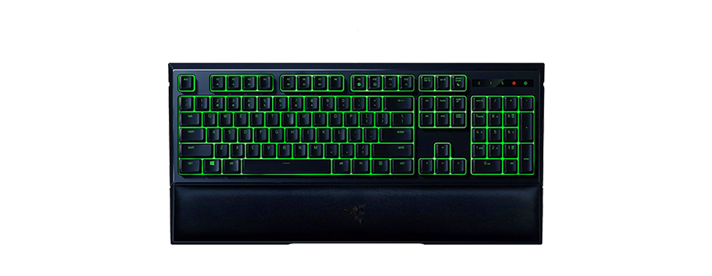
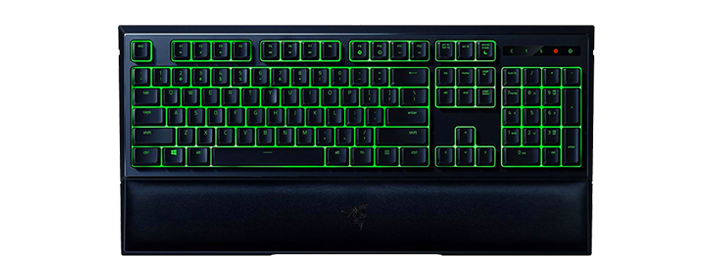
added new items

diff --git a/ng-src/src/app/components/treats/treats.component.html b/ng-src/src/app/components/treats/treats.component.html
@@ -150,7 +150,7 @@
 </div>
 
 <div class="row">
-    <div class="col s3"></div>
+    
     <div class="col s6 products">
         <div id="product-1" class="products-item">
         <div class="container center products-item-content" >
@@ -161,15 +161,6 @@
                 </div>
             </div>
             <div class="upper-cont">
-                <!-- <div>
-                    <div class="right-align">
-                        <p class="recent-price" id="recent-price"> <span class= "crossed-out-price" id="crossed-out-price"> Php 7000.00  </span>Php 5,950</p>
-                        <div class="valign-wrapper right received-candies">
-                            <p class="total-candies-rec">You get <span id="num-of-candies"> 28 </span> </p>
-                            <img class="responsive-img candy-img" src="../assets/img/product-candies.png">
-                        </div>
-                    </div>
-                </div> -->
 
                 <div>
                     <div class="right-align right">
@@ -221,7 +212,69 @@
         </div>
         </div>
     </div>
-    <div class="col s3"></div>
+
+    <div class="col s6 products">
+        <div id="product-1" class="products-item">
+        <div class="container center products-item-content" >
+            <div class="row no-btm">
+            <div class="treat-img">
+                <div class="left">
+                    <!-- <img src="../assets/img/product-treat-logo.png" class="responsive-img"> -->
+                </div>
+            </div>
+            <div class="upper-cont">
+
+                <div>
+                    <div class="right-align right">
+                        <div class="valign-wrapper right-align">
+                            <div class="align-price">
+                                <p class= "crossed-out-price" id="crossed-out-price">Php 4,300.00</p>
+                                <br/>
+                                <p class="no-margin now">Now only</p>
+                            </div>
+                            <div>
+                                <p class="recent-price" id="recent-price">Php 3,655.00</p>
+                            </div>
+                            
+                        </div>
+                        <div class="valign-wrapper right received-candies">
+                            <p class="total-candies-rec">You get <span id="num-of-candies"> 14 </span> </p>
+                            <a href="#candies"><img class="responsive-img candy-img" src="../assets/img/product-candies.png"></a>
+                        </div>
+                    </div>
+                </div>
+            </div>
+    </div>
+    <div class="row">
+        <div class="middle-cont">
+            <img class="responsive-img" src="../assets/img/razer-ornata-keyboard.png" >
+        </div>
+    </div>
+    <div class="row">
+        <div class="bottom-cont">
+            <div class="col s9 left-align no-pad">
+                <p class="product-brand" id="product-brand">Razer </p>
+                <div class="treats-list">
+                    <ul>
+                        <li #key2>Razer Ornata</li>
+                        <li>Membrane Keyboard</li>
+                        <li>Wrist Rest </li>
+                        <li>Ergonomic Design </li>
+                    </ul>
+                </div>
+            </div>
+            <div class="col s3 center-align no-pad">
+                <button  (click)="openOrderFormDialog({itemName:key3.innerText})"class="btn waves-effect waves-light">
+                    Buy Now
+                </button>
+                <p class="prod-available">Available: <span>YES</span></p>
+            </div>
+            </div>
+            </div>
+        </div>
+        </div>
+    </div>
+    
 </div>
 <!--Keyboards Ends-->
 
@@ -646,14 +699,91 @@
 </div>
 <!--SSD Ends-->
 
-<!--ETC-->
-<div class="row etc">
-  <div class="col s12">
-    <p class="treats-item-title">Coolers</p>
-  </div>
+<!--MOBO-->
+<div class="row mobo">
+    <div class="col s12">
+        <p class="treats-item-title">Mobo</p>
+    </div>
 </div>
 <div class="row">
-    <div class="col s3"></div>
+    <div class="row">
+        <div class="col s3 products"></div>
+
+        <div class="col s6 products">
+            <div id="product-1" class="products-item">
+                <div class="container center products-item-content" >
+                    <div class="row no-btm">
+                        <div class="treat-img">
+                            <div class="left">
+                                <!-- <img src="../assets/img/product-treat-logo.png" class="responsive-img"> -->
+                            </div>
+                        </div>
+                        <div class="upper-cont">
+                            
+                            <div>
+                                <div class="right-align right">
+                                    <div class="valign-wrapper right-align">
+                                        <div class="align-price">
+                                            <p class= "crossed-out-price" id="crossed-out-price">Php 8,840.00</p>
+                                            <br/>
+                                            <p class="no-margin now">Now only</p>
+                                        </div>
+                                        <div>
+                                            <p class="recent-price" id="recent-price">Php 7,520.00</p>
+                                        </div>
+                                        
+                                    </div>
+                                    <div class="valign-wrapper right received-candies">
+                                        <p class="total-candies-rec">You get <span id="num-of-candies"> 4 </span> </p>
+                                        <a href="#candies"><img class="responsive-img candy-img" src="../assets/img/product-candies.png"></a>
+                                    </div>
+                                </div>
+                            </div>
+                        </div>
+                    </div>
+                    <div class="row">
+                        <div class="middle-cont">
+                            <img class="responsive-img" src="../assets/img/tomahawk.png" >
+                        </div>
+                    </div>
+                    <div class="row">
+                        <div class="bottom-cont">
+                            <div class="col s9 left-align no-pad">
+                                <p class="product-brand" id="product-brand"> MSI</p>
+                                <div class="treats-list">
+                                    <ul>
+                                        <li #hawk>TOMAHAWK LGA1151</li>
+                                        <li>DDR4</li>
+                                        <li>Intel Z370</li>
+                                        <li>ATX Motherboard</li>
+                                    </ul>
+                                </div>
+                            </div>
+                            <div class="col s3 center-align no-pad">
+                                <button  (click)="openOrderFormDialog({itemName:hawk.innerText})"class="btn waves-effect waves-light">
+                                    Buy Now
+                                </button>
+                                <p class="prod-available">Available: <span>YES</span></p>
+                            </div>
+                        </div>
+                    </div>
+                </div>
+            </div>
+        </div>
+        
+        <div class="col s3 products"></div>
+    </div>
+</div>
+
+<!--MOBO ends-->
+    
+<!--ETC-->
+<div class="row etc">
+    <div class="col s12">
+        <p class="treats-item-title">Etc</p>
+    </div>
+</div>
+<div class="row">
     <div class="col s6 products">
         <div id="product-1" class="products-item">
             <div class="container center products-item-content" >
@@ -723,6 +853,68 @@
             </div>
         </div>
     </div>
-    <div class="col s3"></div>
+    
+    <div class="col s6 products">
+        <div id="product-1" class="products-item">
+            <div class="container center products-item-content" >
+                <div class="row no-btm">
+                    <div class="treat-img">
+                        <div class="left">
+                            <!-- <img src="../assets/img/product-treat-logo.png" class="responsive-img"> -->
+                        </div>
+                    </div>
+                    <div class="upper-cont">
+                        
+                        <div>
+                            <div class="right-align right">
+                                <div class="valign-wrapper right-align">
+                                    <div class="align-price">
+                                        <p class= "crossed-out-price" id="crossed-out-price">Php 2,000.00</p>
+                                        <br/>
+                                        <p class="no-margin now">Now only</p>
+                                    </div>
+                                    <div>
+                                        <p class="recent-price" id="recent-price">Php 1,700.00</p>
+                                    </div>
+                                    
+                                </div>
+                                <div class="valign-wrapper right received-candies">
+                                    <p class="total-candies-rec">You get <span id="num-of-candies"> 6 </span> </p>
+                                    <a href="#candies"><img class="responsive-img candy-img" src="../assets/img/product-candies.png"></a>
+                                </div>
+                            </div>
+                        </div>
+                    </div>
+                </div>
+                <div class="row">
+                    <div class="middle-cont">
+                        <img class="responsive-img" src="../assets/img/google-chromecast.png" >
+                    </div>
+                </div>
+                <div class="row">
+                    <div class="bottom-cont">
+                        <div class="col s9 left-align no-pad">
+                            <p class="product-brand" id="product-brand">Google</p>
+                            <div class="treats-list">
+                                <ul>
+                                    <li #chromecast>Google Chromecast 2</li>
+                                    <li>Streaming Media Player </li>
+                                    <li></li>
+                                    <li></li>
+                                </ul>
+                            </div>
+                        </div>
+                        <div class="col s3 center-align no-pad">
+                            <button  (click)="openOrderFormDialog({itemName:coo1.innerText})"class="btn waves-effect waves-light">
+                                Buy Now
+                            </button>
+                            <p class="prod-available">Available: <span>YES</span></p>
+                        </div>
+                    </div>
+                </div>
+            </div>
+        </div>
+    </div>
 </div>
 <!--ETC ends-->
+

diff --git a/ng-src/src/app/components/treats/treats.component.css b/ng-src/src/app/components/treats/treats.component.css
@@ -31,6 +31,9 @@
     background-color: #4532dc!important;
 }
 
+.mobo{
+    background-color: #11bbdd!important;
+}
 nav{
     -webkit-box-shadow: none!important;
     box-shadow: none!important;
